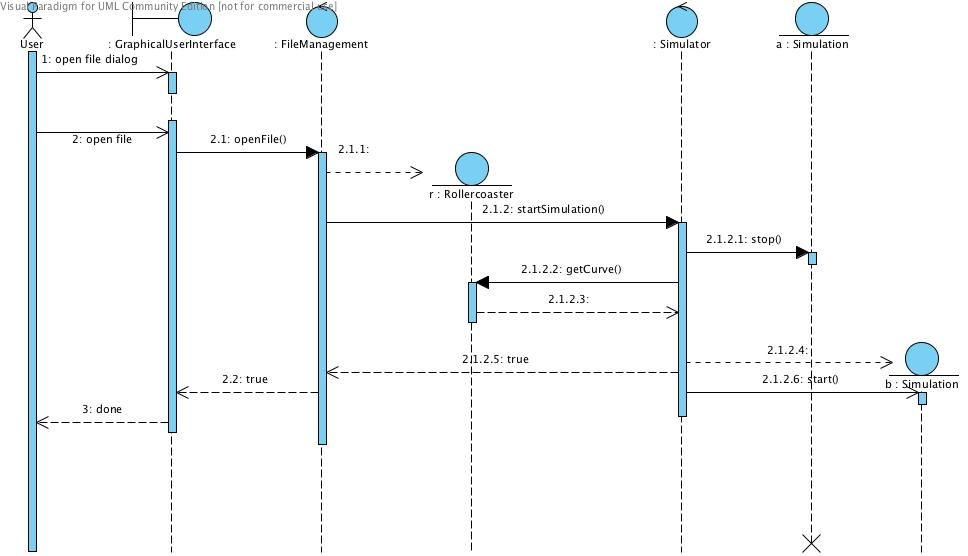
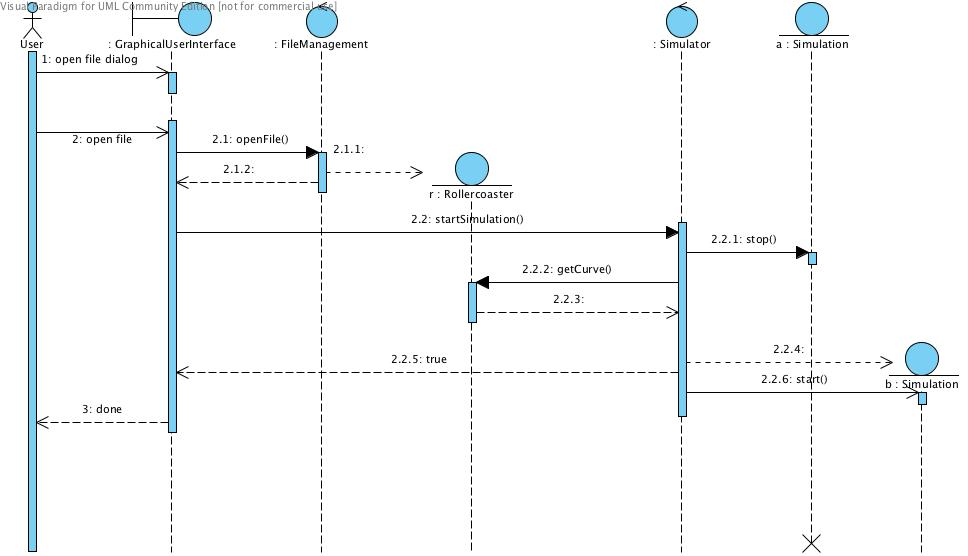
Beschreibung der Funktionalität Spezifikation Einlesen

diff --git a/documents/grobentwurf/Latex/inhalt/produktfunktionsanalyse.tex b/documents/grobentwurf/Latex/inhalt/produktfunktionsanalyse.tex
@@ -23,3 +23,19 @@ Realisierung der Funktion als Interaktion von Komponenten des zu entwickelnden
 Systems in einem Sequenzdiagramm. Das Diagramm bitte ebenfalls kurz
 beschreiben.
 
+\section{Analyse der Funktionalität /F100/: Spezifikation einlesen}
+Das Einlesen einer Spezifikation aus einem vom Nutzer angegebenen Dateipfad
+gliedert sich in mehrere Teilfunktionalutäten. Zunächst muss der Anwender den
+Dateipfad auswählen. Dafür sollte ein Datei-Dialog zum Einsatz kommen.
+Danach muss die ausgewählte Datei geöffnet, geprüft und geparst werden. Für
+diese Aufgaben bietet sich eine spezialisierte Komponente an, um alle
+Eigenheiten des Dateiformates von der Oberfläche und dem Simulator abzukapseln.
+Der ausgelesene Datensatz nun zum Starten einer neuen Simulation verwendet,
+dafür muss eine eventuell laufende Simulation beendet werden. Es bietet sich
+an, diese Funktionen als Schnittstelle zu kapseln und die konkrete Implementierung
+der Simulator-Komponente zu überlassen.
+
+(Bild einfügen)
+Sequenzdiagramm für den Geschäftsprozess "Spezifikation einlesen"
+Dargestellt ist die Interaktion des Nutzers mit der grafischen Benutzeroberfläche
+beim Öffnen einer Datei, das Auslesen der Datei und der Wechsel der Simulation
